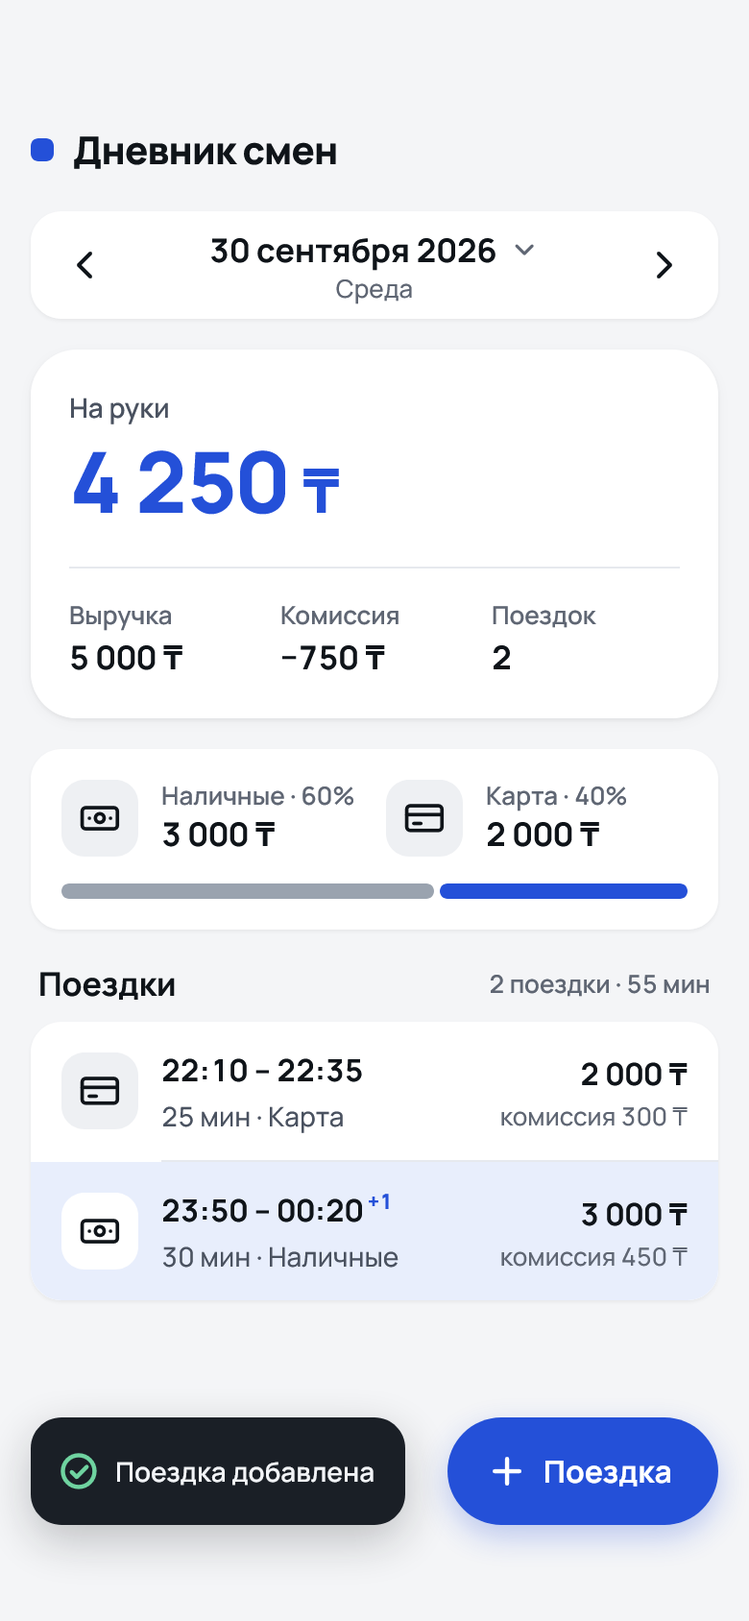
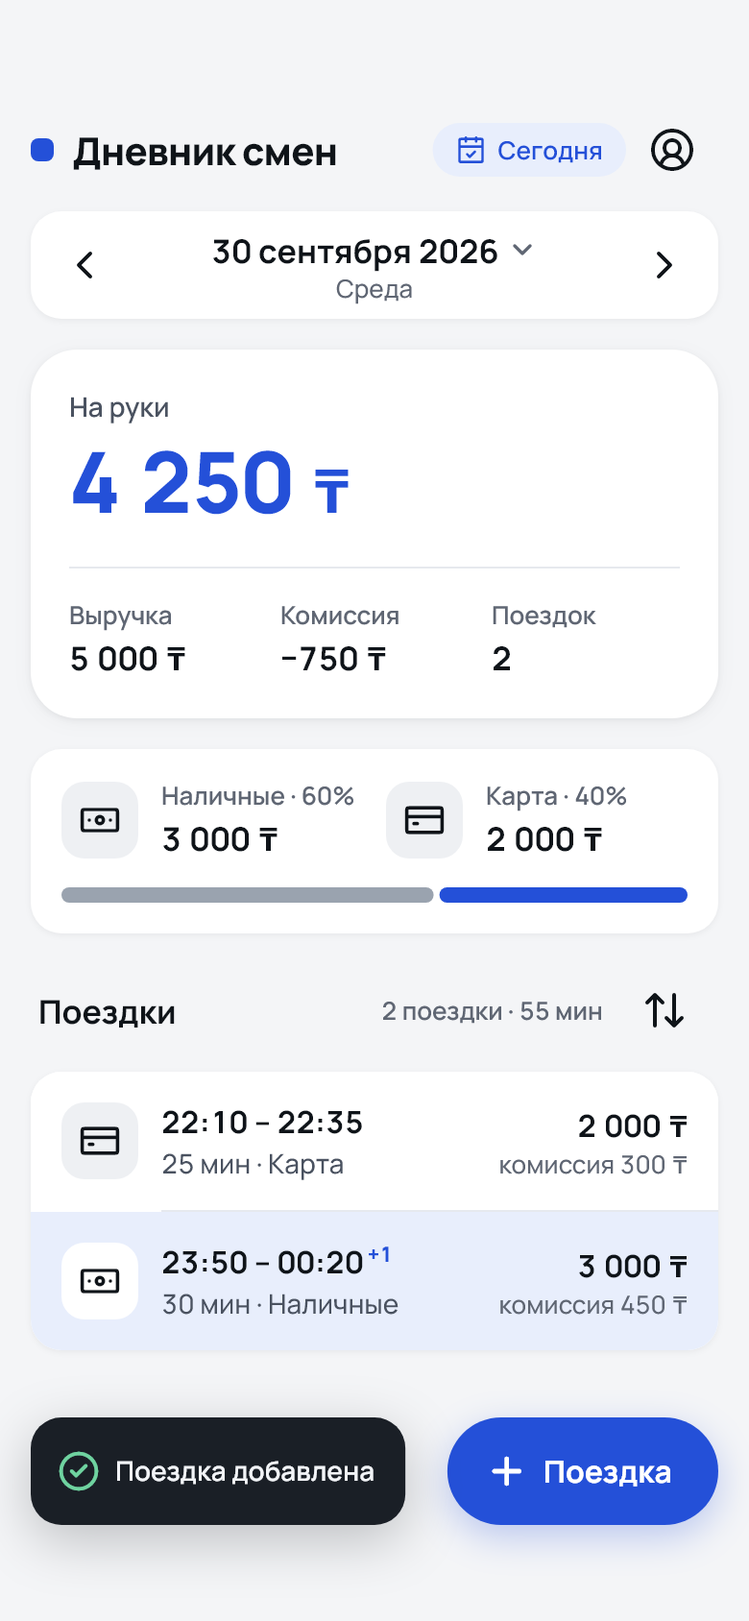
docs(design): app screenshots in ru and kk; CI rejects Cyrillic literals outside l10n

diff --git a/docs/L10N.md b/docs/L10N.md
@@ -1,0 +1,198 @@
+# Localization (ru / kk)
+
+The app is in Russian and Kazakh. Russian (`app_ru.arb`) is the source; the
+Kazakh texts (`app_kk.arb`) are **machine translations** and every one of
+them needs a review by a native speaker before a real release.
+
+## How it works
+
+- `flutter_localizations` + gen-l10n: `apps/mobile/lib/l10n/app_ru.arb`,
+  `app_kk.arb` → `lib/l10n/gen/` (generated, committed, formatted).
+- Every visible string goes through `AppLocalizations` (`context.l10n`). The
+  design kit has no texts of its own: labels are parameters. CI fails on a
+  Cyrillic literal in `apps/mobile/lib` or `packages/design_kit/lib` outside
+  the generated code (comments excepted).
+- Plurals are ICU: ru one / few / many / other, kk one / other
+  (`tripsCount`).
+- Dates use `intl` with the active locale: ru «1 октября 2026», kk
+  «2026 ж. 1 қазан» (CLDR, with a no-break space before «ж.»), short admin
+  dates «9 окт., 22:34» / «9 қаз., 22:34». Today / yesterday: Сегодня /
+  Бүгін, Вчера / Кеше.
+- Money is the same in both languages: `1 815 ₸` (U+202F, `₸`). Screen
+  readers say «1 815 тенге» / «1 815 теңге» (`moneySpoken`).
+- Server errors are shown by error code and field, never the server's own
+  message.
+- The language is chosen on the login screen and in the menu
+  (`DkLanguageSwitch`, «Русский» / «Қазақша», each in its own language),
+  applies at once and is kept in `shared_preferences`. Without a saved
+  choice: the phone's language if it is Russian or Kazakh, else Russian.
+
+## Not translated
+
+- Data from the server: display names («Водитель 1»), reject reasons typed
+  by the admin. They are shown as stored.
+- Language names (always in their own language).
+
+## Strings
+
+156 keys. `needs native review`: machine translation, not checked by a
+Kazakh speaker yet.
+
+| Key | ru | kk | Status |
+|---|---|---|---|
+| `appTitle` | Дневник смен | Ауысым күнделігі | needs native review |
+| `languageRu` | Русский | Русский | own language, never translated |
+| `languageKk` | Қазақша | Қазақша | own language, never translated |
+| `retry` | Повторить | Қайталау | needs native review |
+| `loading` | Загрузка | Жүктелуде | needs native review |
+| `close` | Закрыть | Жабу | needs native review |
+| `back` | Назад | Артқа | needs native review |
+| `cancel` | Отмена | Бас тарту | needs native review |
+| `ok` | Понятно | Түсінікті | needs native review |
+| `today` | Сегодня | Бүгін | needs native review |
+| `yesterday` | Вчера | Кеше | needs native review |
+| `menu` | Меню | Мәзір | needs native review |
+| `moneySpoken` | {amount} тенге | {amount} теңге | needs native review |
+| `errorGeneric` | Что-то пошло не так. Попробуйте ещё раз. | Бірдеңе дұрыс болмады. Қайталап көріңіз. | needs native review |
+| `errorServerUnavailable` | Сервер временно недоступен. Попробуйте чуть позже. | Сервер уақытша қолжетімсіз. Сәл кейінірек көріңіз. | needs native review |
+| `errorForbidden` | Недостаточно прав для этого действия. | Бұл әрекетке құқығыңыз жеткіліксіз. | needs native review |
+| `loadFailedTitle` | Не удалось загрузить | Жүктеу мүмкін болмады | needs native review |
+| `loadFailedMessage` | Проверьте интернет и попробуйте ещё раз. | Интернетті тексеріп, қайталап көріңіз. | needs native review |
+| `tripsTitle` | Поездки | Сапарлар | needs native review |
+| `sortTitle` | Сортировка | Сұрыптау | needs native review |
+| `sortButton` | Сортировка: {order} | Сұрыптау: {order} | needs native review |
+| `orderTimeAscending` | Сначала ранние | Алдымен ертеректері | needs native review |
+| `orderTimeDescending` | Сначала поздние | Алдымен кештері | needs native review |
+| `orderAmountDescending` | Сначала дорогие | Алдымен қымбаттары | needs native review |
+| `orderAmountAscending` | Сначала дешёвые | Алдымен арзандары | needs native review |
+| `addTripFab` | Поездка | Сапар | needs native review |
+| `emptyTitle` | За этот день поездок нет | Бұл күні сапар жоқ | needs native review |
+| `emptyMessage` | Добавьте поездку — выручка, комиссия и сумма на руки посчитаются сами. | Сапар қосыңыз — түсім, комиссия және қолға тиетін сома өзі есептеледі. | needs native review |
+| `emptyAction` | Добавить поездку | Сапар қосу | needs native review |
+| `errorTitle` | Не удалось загрузить данные | Деректерді жүктеу мүмкін болмады | needs native review |
+| `errorMessage` | Проверьте интернет и попробуйте ещё раз. Сохранённые поездки никуда не пропадут. | Интернетті тексеріп, қайталап көріңіз. Сақталған сапарлар жоғалмайды. | needs native review |
+| `saved` | Поездка добавлена | Сапар қосылды | needs native review |
+| `pickDateHelp` | Выберите день | Күнді таңдаңыз | needs native review |
+| `prevDay` | Предыдущий день | Алдыңғы күн | needs native review |
+| `nextDay` | Следующий день | Келесі күн | needs native review |
+| `pickDate` | Выбрать дату, {date} | Күнді таңдау, {date} | needs native review |
+| `summaryNet` | На руки | Қолға | needs native review |
+| `summaryRevenue` | Выручка | Түсім | needs native review |
+| `summaryCommission` | Комиссия | Комиссия | needs native review |
+| `summaryTrips` | Поездок | Сапар саны | needs native review |
+| `cash` | Наличные | Қолма-қол | needs native review |
+| `card` | Карта | Карта | needs native review |
+| `tripsCount` | {count, plural, one{{count} поездка} few{{count} поездки} many{{count} поездок} other{{count} поездки}} | {count, plural, one{{count} сапар} other{{count} сапар}} | needs native review |
+| `durationMinutes` | {minutes} мин | {minutes} мин | needs native review |
+| `durationHours` | {hours} ч | {hours} сағ | needs native review |
+| `durationHoursMinutes` | {hours} ч {minutes} мин | {hours} сағ {minutes} мин | needs native review |
+| `commissionLine` | комиссия {amount} | комиссия {amount} | needs native review |
+| `nextDayLabel` | следующий день | келесі күн | needs native review |
+| `formTitle` | Новая поездка | Жаңа сапар | needs native review |
+| `start` | Начало | Басталуы | needs native review |
+| `end` | Окончание | Аяқталуы | needs native review |
+| `amount` | Сумма | Сома | needs native review |
+| `commission` | Комиссия | Комиссия | needs native review |
+| `payment` | Способ оплаты | Төлем тәсілі | needs native review |
+| `amountHelper` | Сколько заплатил пассажир | Жолаушы қанша төледі | needs native review |
+| `nextDayBadge` | +1 день | +1 күн | needs native review |
+| `save` | Сохранить | Сақтау | needs native review |
+| `saving` | Сохраняем… | Сақталуда… | needs native review |
+| `startPickerHelp` | Начало поездки | Сапардың басталуы | needs native review |
+| `endPickerHelp` | Окончание поездки | Сапардың аяқталуы | needs native review |
+| `pickerDone` | Готово | Дайын | needs native review |
+| `timeNotPicked` | не выбрано | таңдалмаған | needs native review |
+| `durationHelper` | Длительность: {duration} | Ұзақтығы: {duration} | needs native review |
+| `netHelper` | На руки с поездки: {amount} | Сапардан қолға: {amount} | needs native review |
+| `midnightHelper` | Окончание {endDay} · {duration}. Поездка попадёт в {startDay} — день начала. | Аяқталуы {endDay} · {duration}. Сапар басталған күнге — {startDay} жазылады. | needs native review |
+| `errEndBeforeStart` | Окончание должно быть позже начала | Аяқталуы басталуынан кейін болуы керек | needs native review |
+| `errAmount` | Сумма должна быть больше 0 | Сома 0-ден көп болуы керек | needs native review |
+| `errCommissionGtAmount` | Комиссия не может быть больше суммы | Комиссия сомадан көп бола алмайды | needs native review |
+| `errCommissionNegative` | Комиссия не может быть отрицательной | Комиссия теріс бола алмайды | needs native review |
+| `errRequired` | Заполните поле | Өрісті толтырыңыз | needs native review |
+| `errNotInteger` | Введите целое число тенге | Теңгенің бүтін санын енгізіңіз | needs native review |
+| `errAmountTooLarge` | Слишком большая сумма | Сома тым үлкен | needs native review |
+| `errDateOutOfRange` | Дата вне допустимого диапазона | Күні рұқсат етілген ауқымнан тыс | needs native review |
+| `errInvalidTime` | Неверное время поездки | Сапар уақыты қате | needs native review |
+| `errInvalidPayment` | Выберите способ оплаты | Төлем тәсілін таңдаңыз | needs native review |
+| `errTripGeneric` | Проверьте данные поездки | Сапар деректерін тексеріңіз | needs native review |
+| `tripOffline` | Нет связи. Повторим отправку — поездка не задвоится. | Байланыс жоқ. Қайта жібереміз — сапар екі рет жазылмайды. | needs native review |
+| `conflictTitle` | Эта поездка уже сохранена с другими данными | Бұл сапар басқа деректермен сақталып қойған | needs native review |
+| `conflictMessage` | Обновите день, чтобы увидеть сохранённую версию. | Сақталған нұсқасын көру үшін күнді жаңартыңыз. | needs native review |
+| `conflictKeep` | Оставить сохранённую | Сақталғанын қалдыру | needs native review |
+| `conflictNew` | Сохранить как новую поездку | Жаңа сапар ретінде сақтау | needs native review |
+| `discardTitle` | Закрыть без сохранения? | Сақтамай жабу керек пе? | needs native review |
+| `discardMessage` | Введённые данные поездки не сохранятся. | Енгізілген сапар деректері сақталмайды. | needs native review |
+| `discardKeep` | Продолжить ввод | Енгізуді жалғастыру | needs native review |
+| `discardLeave` | Закрыть | Жабу | needs native review |
+| `login` | Логин | Логин | needs native review |
+| `password` | Пароль | Құпиясөз | needs native review |
+| `loginTitle` | Вход | Жүйеге кіру | needs native review |
+| `signIn` | Войти | Кіру | needs native review |
+| `signingIn` | Входим… | Кіріп жатырмыз… | needs native review |
+| `showPassword` | Показать пароль | Құпиясөзді көрсету | needs native review |
+| `hidePassword` | Скрыть пароль | Құпиясөзді жасыру | needs native review |
+| `errInvalidCredentials` | Неверный логин или пароль | Логин немесе құпиясөз қате | needs native review |
+| `errRateLimited` | Слишком много попыток. Попробуйте через 15 минут. | Әрекет тым көп. 15 минуттан кейін қайталап көріңіз. | needs native review |
+| `loginOffline` | Нет связи. Проверьте интернет. | Байланыс жоқ. Интернетті тексеріңіз. | needs native review |
+| `errAccountBlocked` | Аккаунт заблокирован. Обратитесь в парк. | Аккаунт бұғатталған. Паркке хабарласыңыз. | needs native review |
+| `sessionEnded` | Сессия завершена. Войдите снова. | Сессия аяқталды. Қайта кіріңіз. | needs native review |
+| `roleDriver` | Водитель | Жүргізуші | needs native review |
+| `roleAdmin` | Администратор | Әкімші | needs native review |
+| `profileCaption` | @{login} · {role} | @{login} · {role} | pattern only |
+| `withdraw` | Вывод средств | Қаражат шығару | needs native review |
+| `available` | Доступно {amount} | Қолжетімді: {amount} | needs native review |
+| `language` | Язык | Тіл | needs native review |
+| `logout` | Выйти | Шығу | needs native review |
+| `logoutTitle` | Выйти из аккаунта? | Аккаунттан шығу керек пе? | needs native review |
+| `logoutMessage` | Чтобы снова увидеть поездки, нужно будет войти по логину и паролю. | Сапарларды қайта көру үшін логин мен құпиясөз арқылы кіру керек болады. | needs native review |
+| `appVersion` | Версия {version} | Нұсқа {version} | needs native review |
+| `availableToWithdraw` | Доступно к выводу | Шығаруға қолжетімді | needs native review |
+| `cardTotal` | Безнал | Қолма-қолсыз | needs native review |
+| `withdrawn` | Выведено | Шығарылды | needs native review |
+| `cashNote` | Наличные остаются у вас, поэтому комиссия за них тоже списывается с безнала. | Қолма-қол ақша сізде қалады, сондықтан оның комиссиясы да қолма-қолсыз төлемнен ұсталады. | needs native review |
+| `withdrawAmount` | Сумма вывода | Шығару сомасы | needs native review |
+| `maxHint` | Не больше {amount} | Ең көбі {amount} | needs native review |
+| `all` | Всё | Барлығы | needs native review |
+| `history` | История | Тарих | needs native review |
+| `noWithdrawals` | Заявок на вывод пока не было. | Шығару өтінімдері әлі болған жоқ. | needs native review |
+| `nothingToWithdraw` | Сейчас нечего выводить. | Қазір шығаратын ештеңе жоқ. | needs native review |
+| `errInsufficient` | Сумма больше доступной | Сома қолжетімдіден көп | needs native review |
+| `withdrawButton` | Вывести | Шығару | needs native review |
+| `sending` | Отправляем… | Жіберілуде… | needs native review |
+| `withdrawOffline` | Нет связи. Повторим запрос — деньги не уйдут дважды. | Байланыс жоқ. Сұрауды қайталаймыз — ақша екі рет кетпейді. | needs native review |
+| `withdrawCreated` | Заявка на вывод создана | Шығару өтінімі жасалды | needs native review |
+| `withdrawConflict` | Эта заявка уже отправлена с другой суммой | Бұл өтінім басқа сомамен жіберіліп қойған | needs native review |
+| `withdrawConflictMessage` | История обновлена: там видна сохранённая заявка. | Тарих жаңартылды: сақталған өтінім сонда көрінеді. | needs native review |
+| `dateTime` | {date}, {time} | {date}, {time} | pattern only |
+| `statusPending` | В обработке | Өңделуде | needs native review |
+| `statusPaid` | Выплачено | Төленді | needs native review |
+| `statusRejected` | Отклонено | Қабылданбады | needs native review |
+| `admin` | Админка | Әкімші панелі | needs native review |
+| `tabTrips` | Поездки | Сапарлар | needs native review |
+| `tabWithdrawals` | Выводы | Шығарулар | needs native review |
+| `tabDrivers` | Водители | Жүргізушілер | needs native review |
+| `allDrivers` | Все водители | Барлық жүргізушілер | needs native review |
+| `filterAll` | Все | Барлығы | needs native review |
+| `approve` | Выплатить | Төлеу | needs native review |
+| `reject` | Отклонить | Қабылдамау | needs native review |
+| `rejectReason` | Причина | Себебі | needs native review |
+| `rejectTitle` | Отклонить заявку на {amount}? | {amount} өтінімін қабылдамау керек пе? | needs native review |
+| `rejectMessage` | {driver} увидит причину в истории выводов. | {driver} себебін шығару тарихынан көреді. | needs native review |
+| `markedPaid` | Отмечено как выплачено | Төленді деп белгіленді | needs native review |
+| `rejected` | Заявка отклонена | Өтінім қабылданбады | needs native review |
+| `block` | Заблокировать | Бұғаттау | needs native review |
+| `unblock` | Разблокировать | Бұғаттан шығару | needs native review |
+| `revokeSessions` | Сбросить все сессии | Барлық сессияны тоқтату | needs native review |
+| `revokeSessionsTitle` | Сбросить все сессии? | Барлық сессияны тоқтату керек пе? | needs native review |
+| `revokeSessionsMessage` | Водитель выйдет на всех устройствах | Жүргізуші барлық құрылғыдан шығады | needs native review |
+| `revokeConfirm` | Сбросить | Тоқтату | needs native review |
+| `adminEmptyTitle` | Заявок нет | Өтінім жоқ | needs native review |
+| `adminEmptyMessage` | Новые заявки на вывод появятся здесь. | Жаңа шығару өтінімдері осында көрінеді. | needs native review |
+| `driverRow` | {driver} · {date} | {driver} · {date} | pattern only |
+| `blockedCaption` | @{login} · заблокирован | @{login} · бұғатталған | needs native review |
+| `blockedDone` | Водитель заблокирован | Жүргізуші бұғатталды | needs native review |
+| `unblockedDone` | Водитель разблокирован | Жүргізуші бұғаттан шығарылды | needs native review |
+| `sessionsRevoked` | Сессии сброшены | Сессиялар тоқтатылды | needs native review |
+| `errAlreadyDecided` | Заявку уже обработали — список обновлён. | Өтінім өңделіп қойған — тізім жаңартылды. | needs native review |
+| `errDemoProtected` | Демо-аккаунт защищён: его нельзя заблокировать или сбросить его сессии. | Демо-аккаунт қорғалған: оны бұғаттауға немесе сессияларын тоқтатуға болмайды. | needs native review |
